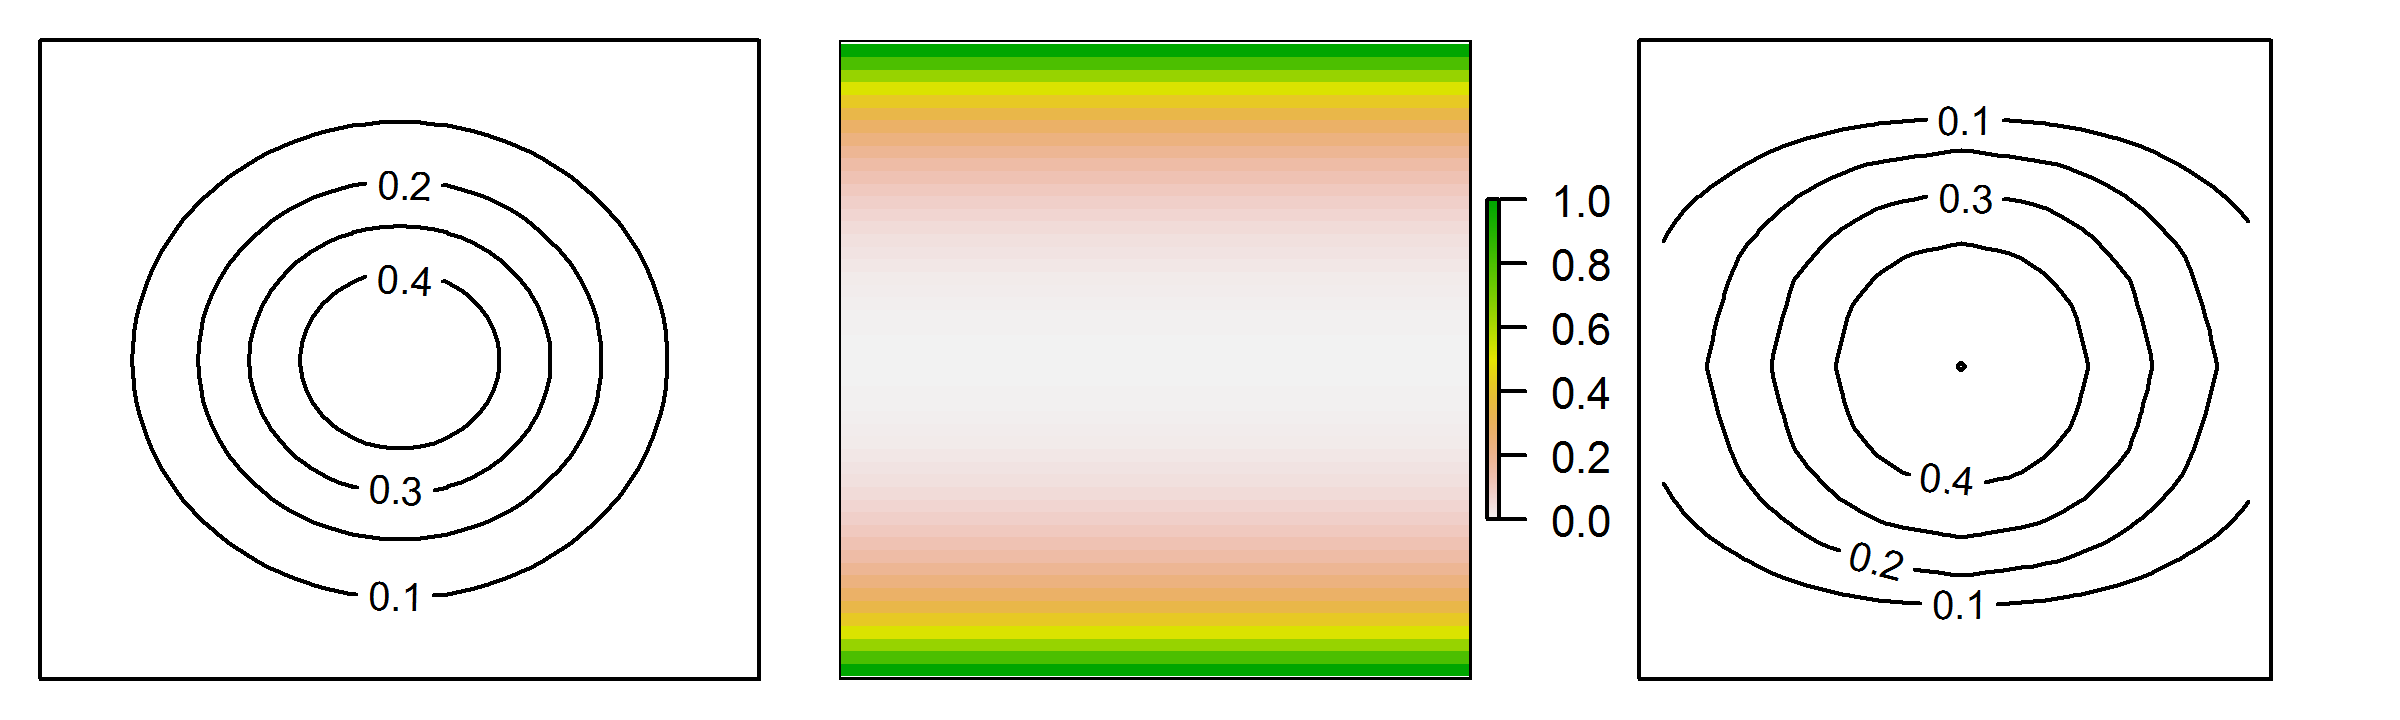
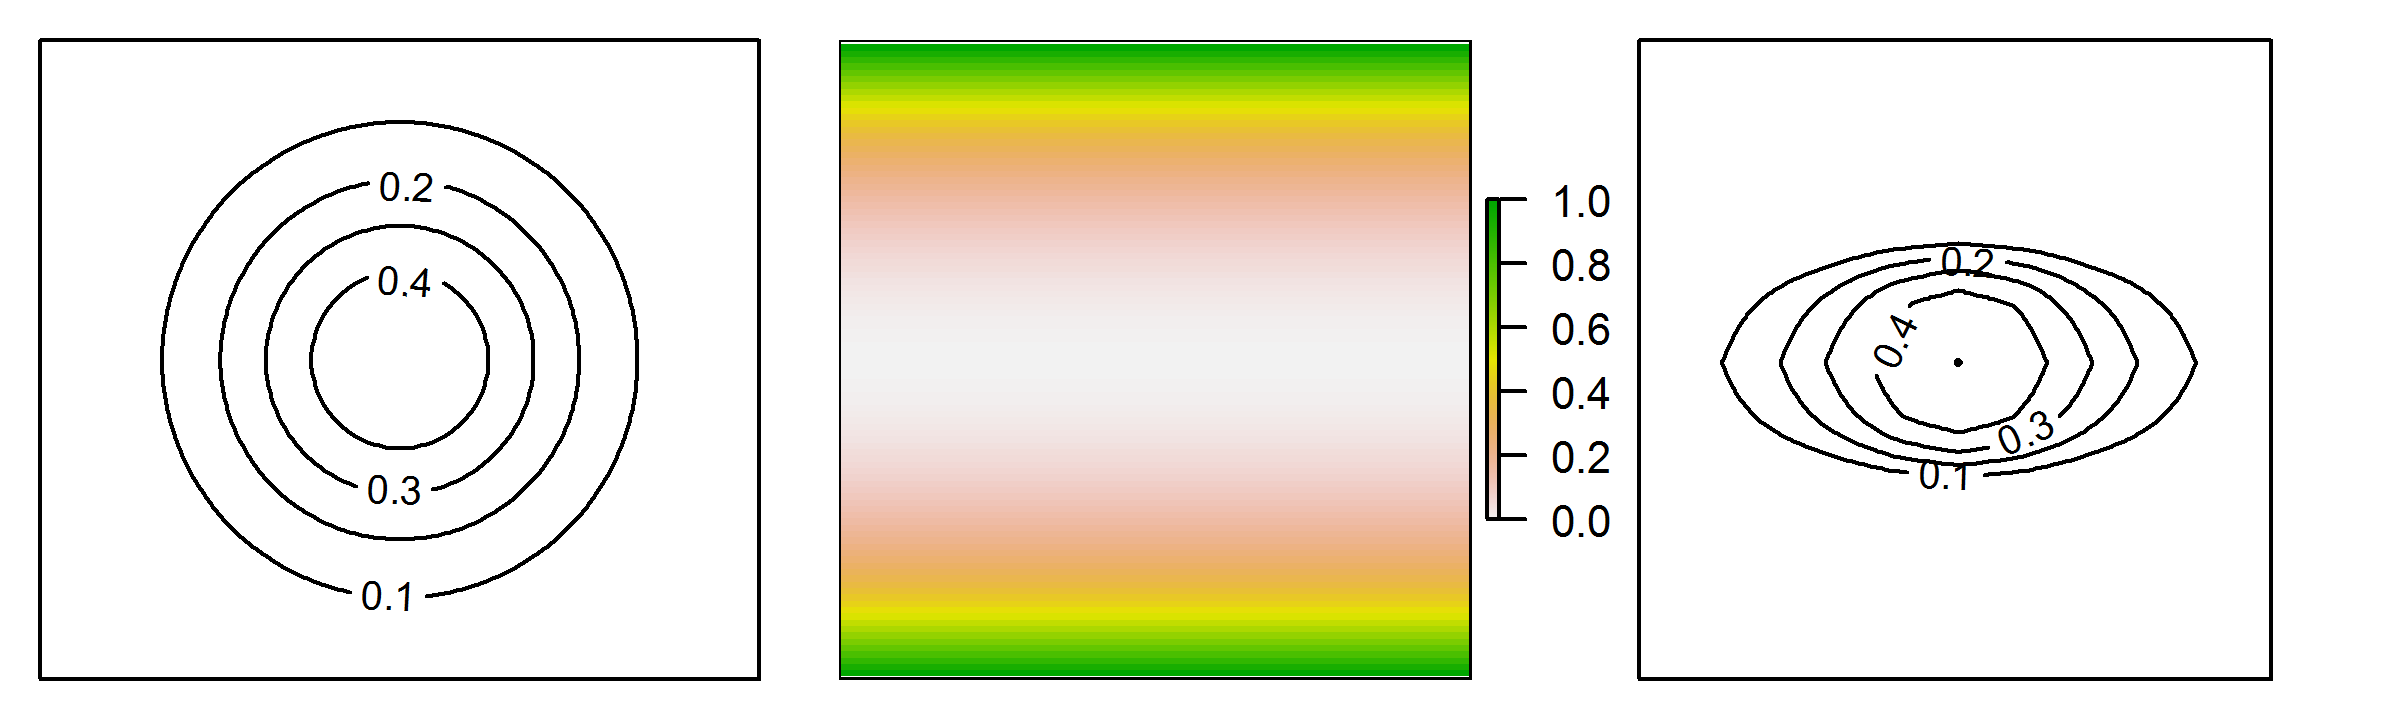
more edits to Ch10 and a new figure

diff --git a/Ch10/Ch10.tex b/Ch10/Ch10.tex
@@ -157,8 +157,18 @@ lives on the landscape, and the state of the surrounding landscape,
 will determine the character of its usage of space. In particular, they
 suggest distance metrics that imply irregular, asymmetric and
 non-stationary home ranges of individuals. As an example,
-Fig. \ref{fig.homeranges} shows home ranges of 6 individuals
-under a specific model, which is described below.
+Fig. \ref{fig.distort} shows a typical symmetric home range, and an
+comressed home range resulting from the effect of an environmental
+variable on an animal's movement behavior.
+
+\begin{figure}[h]
+\centering
+\includegraphics[width=5in,height=1.3in]{Ch10/figs/distort}
+\caption{A symmetric home range (left), a habitat variable (center),
+  and a non-symmetric home range (right) resulting from the cost imposed on
+  movement by the habitat variable.}
+\label{fig.distort}
+\end{figure}
 
 
 \section{Cost-Weighted Distance}
@@ -745,7 +755,9 @@ least-cost distance which becomes negligible as $K$ increases. For
 $N=200$ the bias is on the order of 2\% for the lowest sample size
 case ($K=3$) but negligible otherwise.  Interestingly, for the
 landscape exhibiting systematic structure, there is a persistent bias
-in the MLE of $N$ of 1-3\% even for the highest level of $K$. We were
+in the MLE of $N$ of 1-3\% even for the highest level of $K$.
+RRRRRR I think it would be better to show the results in the appendix
+RRRRRR We were
 initially surprised by this but, in fact, it is due to the fact that
 the state-space is small relative to the extent of the trap grid and
 sensitivity to a state-space that is too small is expected because the
